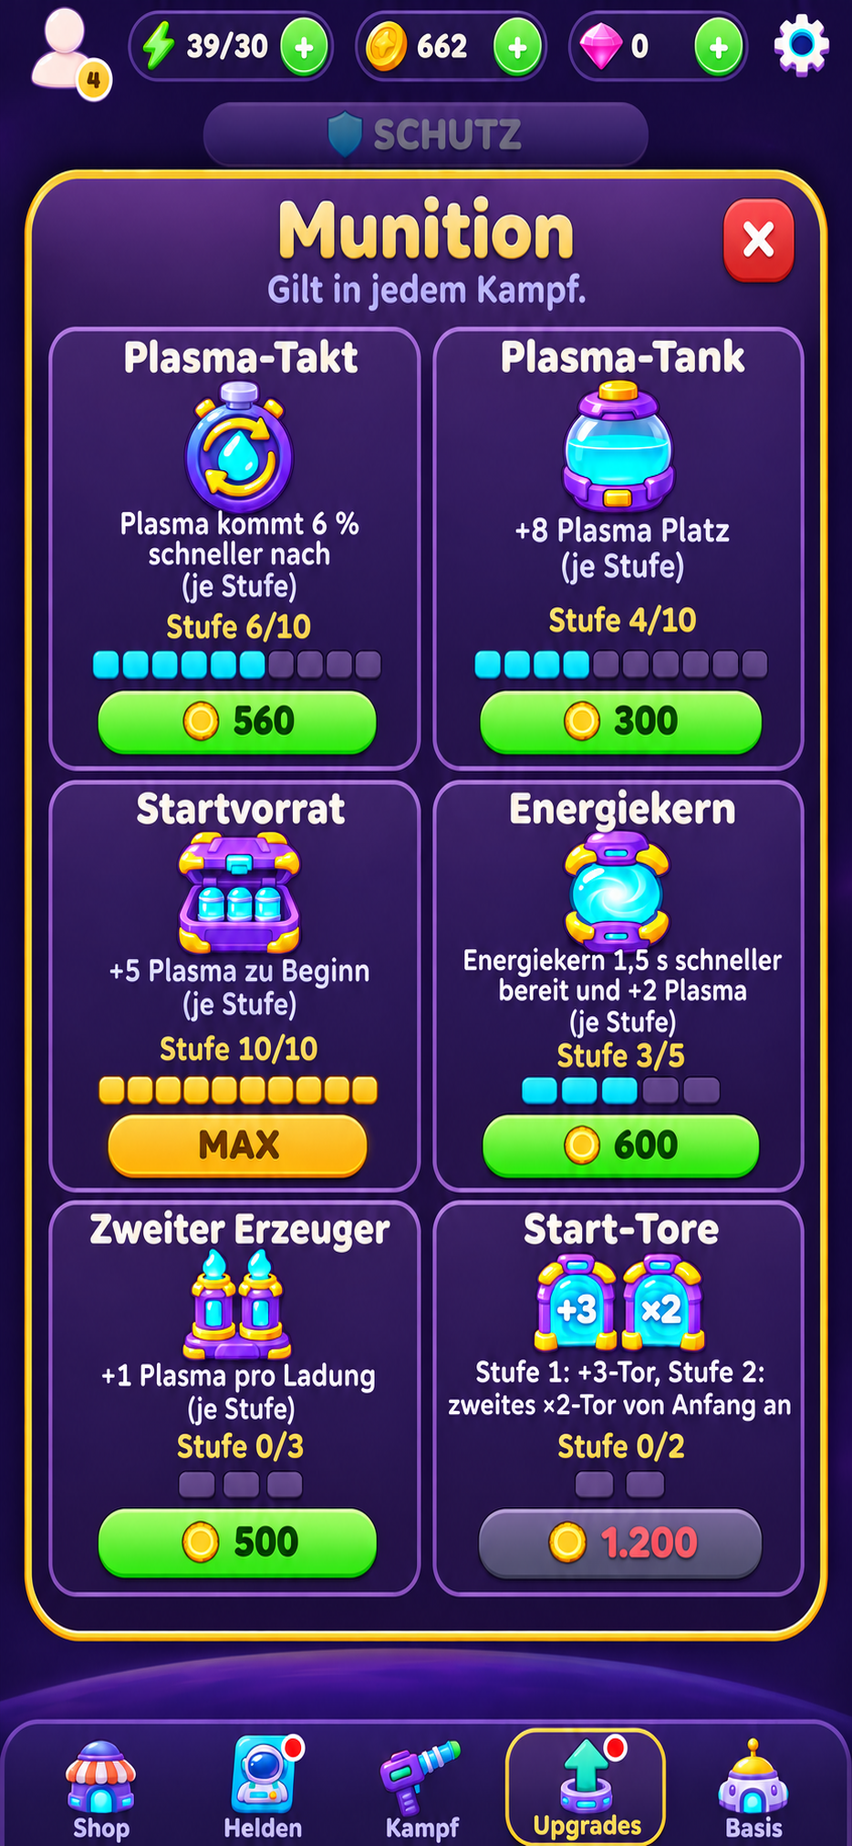
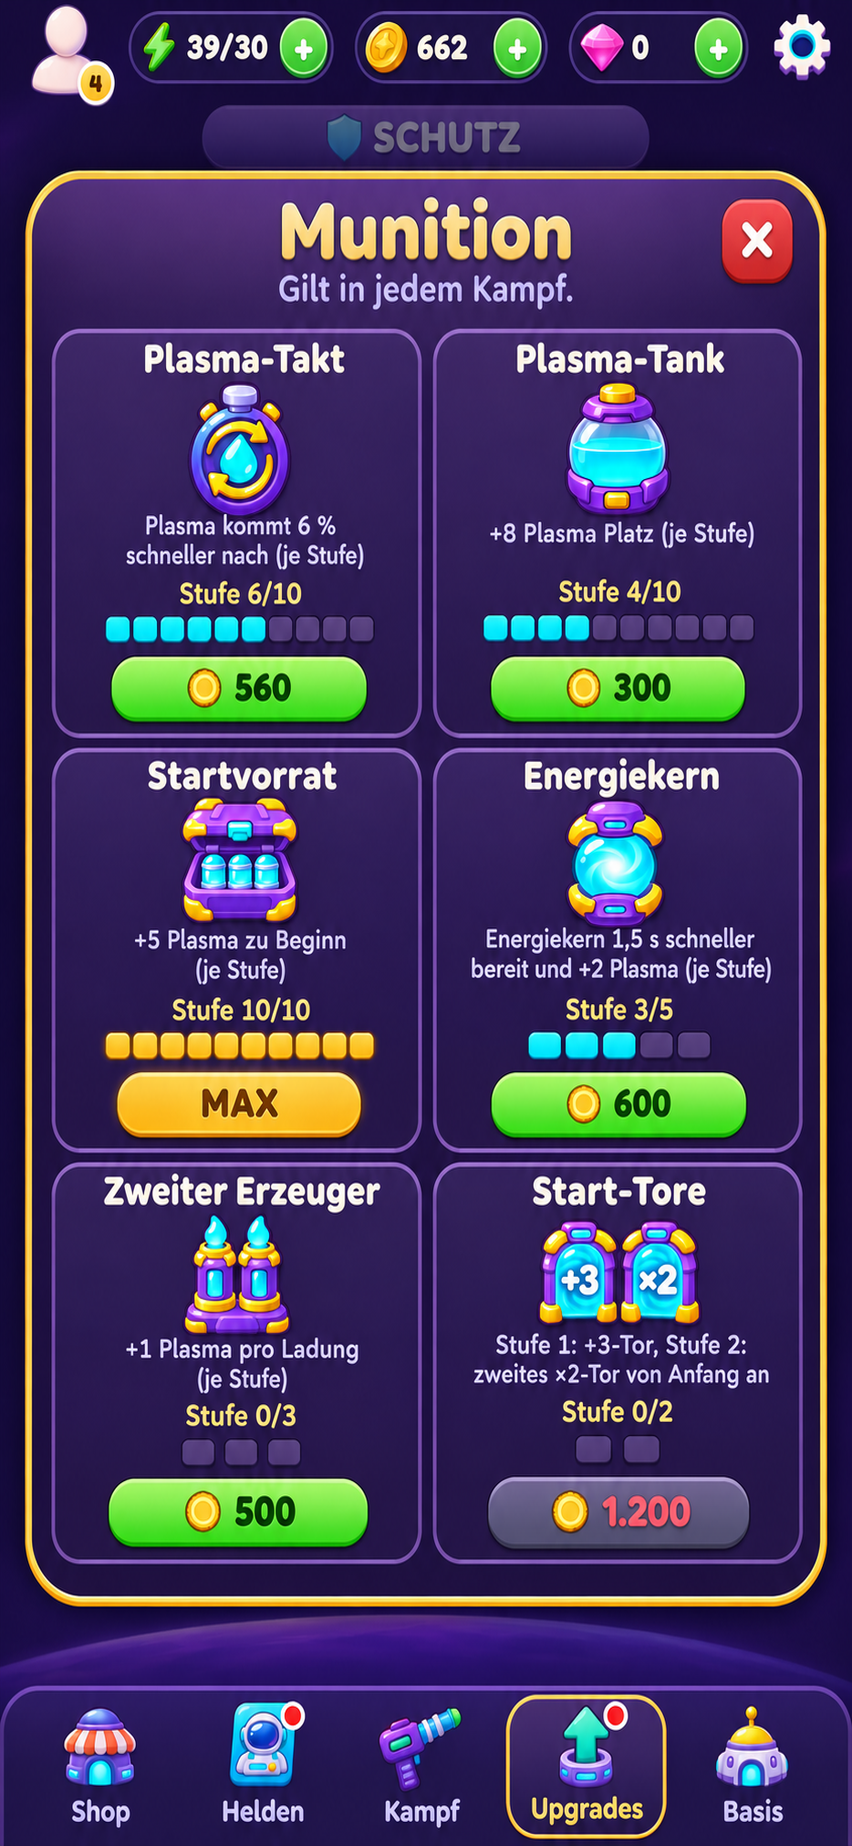
Munitionsfenster auf die bevorzugte kompakte Textfassung umstellen

diff --git a/Vorlage_Raw/Munition_Fenster_v1/LIESMICH_CLAUDE.md b/Vorlage_Raw/Munition_Fenster_v1/LIESMICH_CLAUDE.md
@@ -4,6 +4,12 @@ Die Munition gehört zum Reiter **Upgrades**. Das Fenster öffnet sich über die
 
 Alle sechs Verbesserungen können **parallel und unabhängig** gekauft werden. Die Anordnung ist nur eine Sortierung. Keine Verbindungslinien, Pfeilketten, vorherigen Stufen anderer Module oder neuen Freischaltbedingungen. Pro Kauf steigt ausschließlich das gewählte Modul um eine Stufe. Die Verbesserungen gelten dauerhaft in jedem Kampf.
 
+## Maßgebliche Fassung
+
+Der Nutzer hat am 04.11.2026 ausdrücklich die kompaktere Fassung mit kürzeren Textblöcken bevorzugt. `munition_entwurf_v1.png` entspricht jetzt dieser ausgewählten Bildschirmvorlage. Ihre Textdichte und Umbrüche beibehalten; nicht wieder auf die spätere Fassung mit größeren, dreizeiligen Beschreibungen wechseln. Alle sechs Module bleiben unabhängig ausbaubar.
+
+Die ausgewählte Bildvorlage zeigt bei der Zeitangabe einen Dezimalpunkt. In der tatsächlichen Oberfläche weiterhin den vorgegebenen deutschen Text mit **1,5 s** aus diesem Dokument beziehungsweise der JSON-Datei verwenden. Die Auswahl betrifft die Gestaltung, keine Änderung von Werten oder Formeln.
+
 ## Dateien
 
 - `munition_entwurf_v1.png`: vollständige Bildschirmvorlage, 852 × 1846 Pixel.
@@ -63,7 +69,7 @@ Alle folgenden Maße sind **logische Punkte auf 390 × 844**, keine Pixel des ho
 - Module als Raster **2 Spalten × 3 Reihen**. Linke Spalte x = 22, rechte x = 199; Breite jeweils 169. Zeilen beginnen bei y = 145, 345, 545; Höhe jeweils 192. 8 Punkte horizontaler und vertikaler Zwischenraum. Außenabstand mindestens 12.
 - Reihenfolge zeilenweise: Plasma-Takt / Plasma-Tank; Startvorrat / Energiekern; Zweiter Erzeuger / Start-Tore. Diese Reihenfolge begründet **keine** Kaufabhängigkeit.
 - Innenabstand je Modul etwa 8. Titel 16 Punkte Fredoka fett, für lange Namen nötigenfalls zweizeilig; Stufen 11–12 Punkte Nunito fett.
-- Symbole etwa 42–48 Punkte groß, nicht über Namen oder Text legen. Beschreibungen 12 Punkte Nunito mit ca. 14 Punkten Zeilenhöhe. Im schmalen Modul sind bei Energiekern und Start-Tore bis zu drei Zeilen zulässig, damit keine Wörter fehlen und die Schrift lesbar bleibt.
+- Symbole etwa 42–48 Punkte groß, nicht über Namen oder Text legen. Beschreibungen kompakt in Nunito mit 11–12 Punkten und ca. 13 Punkten Zeilenhöhe. Die zweizeiligen Textblöcke der ausgewählten Vorlage beibehalten; vollständige Texte erhalten und bei der Umsetzung passende Umbrüche prüfen. Keine zusätzlichen erklärenden Sätze auf den Modulen.
 - Segmentleiste ca. 6–7 Punkte hoch, Abstände 2–3. Die Breite pro Segment passt sich der jeweiligen Segmentzahl an.
 - Preisknöpfe ca. 120–145 × 32 sichtbar, Trefferfläche mindestens 44 Punkte hoch. Roter Preis nur im Zustand zu teuer. Münze ohne zusätzliche Preiswährung.
 - Kein Scrollen. Auf 390 × 844 prüfen, ob alle sechs Module zwischen den bestehenden Leisten vollständig sichtbar sind. Das rasterartige Layout soll sich klar von einem linearen Tech-Baum unterscheiden.
